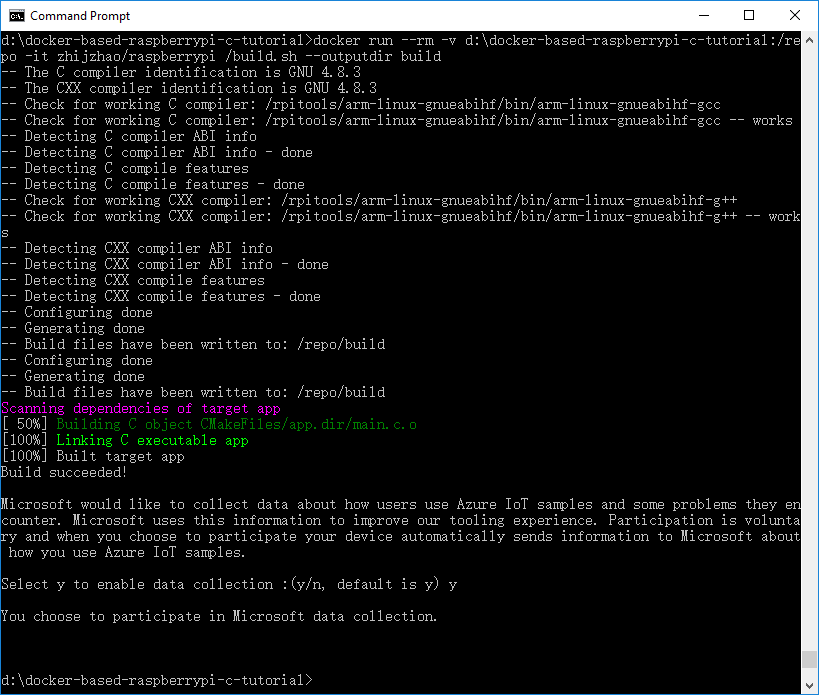
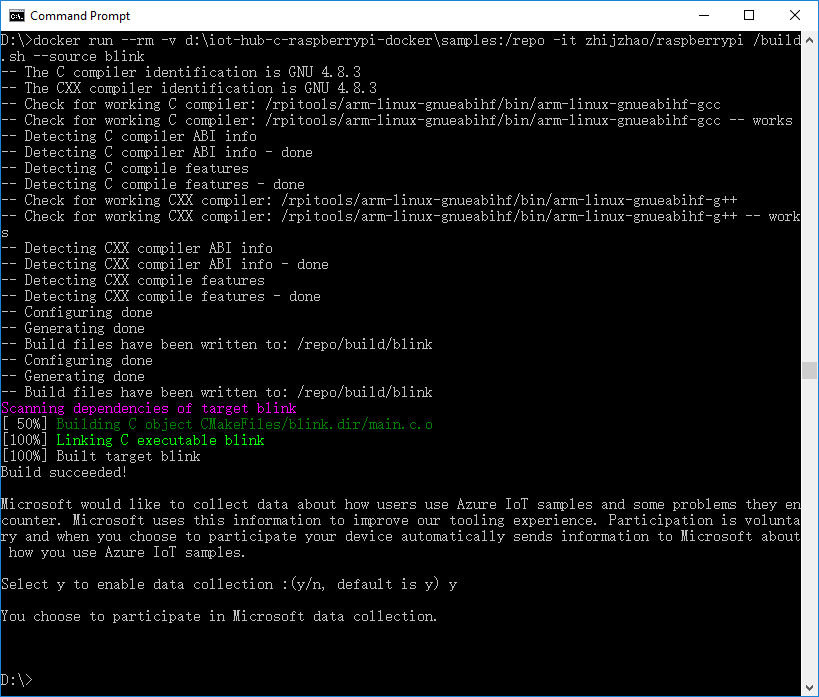
cleanup

diff --git a/doc/windows-7-or-later.md b/doc/windows-7-or-later.md
@@ -43,25 +43,28 @@ Go to [Docker website](https://www.docker.com/). Scroll down and find the `Get D
    ![docker-build.png](media/win/docker-build.PNG)
 
 ## Deploy and run the built app
+1. Open `Git Bash` program. 
 
-1. Open your `Git Bash` program and use SCP to deploy your `blink` folder and `build` folder to your Pi's `/home/pi` folder.
+2. Use SCP to deploy the built binary and sample code to your Pi's `/home/pi` folder.
 
   > Below `<>` parts need to be replaced with your own values.
 
    ```bash
    cd </d/iot-hub-c-raspberrypi-docker/samples>
    scp -r blink <user name>@<device ip address>:/home/pi
-   scp -r build <user name>@<device ip address>:/home/pi
+   scp build/blink/blink <user name>@<device ip address>:/home/pi/blink
    ```
+   ![ssh.png](media/win/scp.PNG)
 
-2. Open your `Git Bash` program and execute below commands to run the built app.
+3. Use SSH to login in to the Pi device. Then add executable permission to the built app. Finally, run the app.
 
    ```bash
    ssh <user name>@<device ip address>
-   sudo ./build/app
+   chmod +x blink/blink
+   sudo blink/blink
    ```
 
-   ![ssh.png](media/win/ssh.PNG)
+   ![ssh.png](media/win/ssh-run.PNG)
 
 ## Debug the app
 
